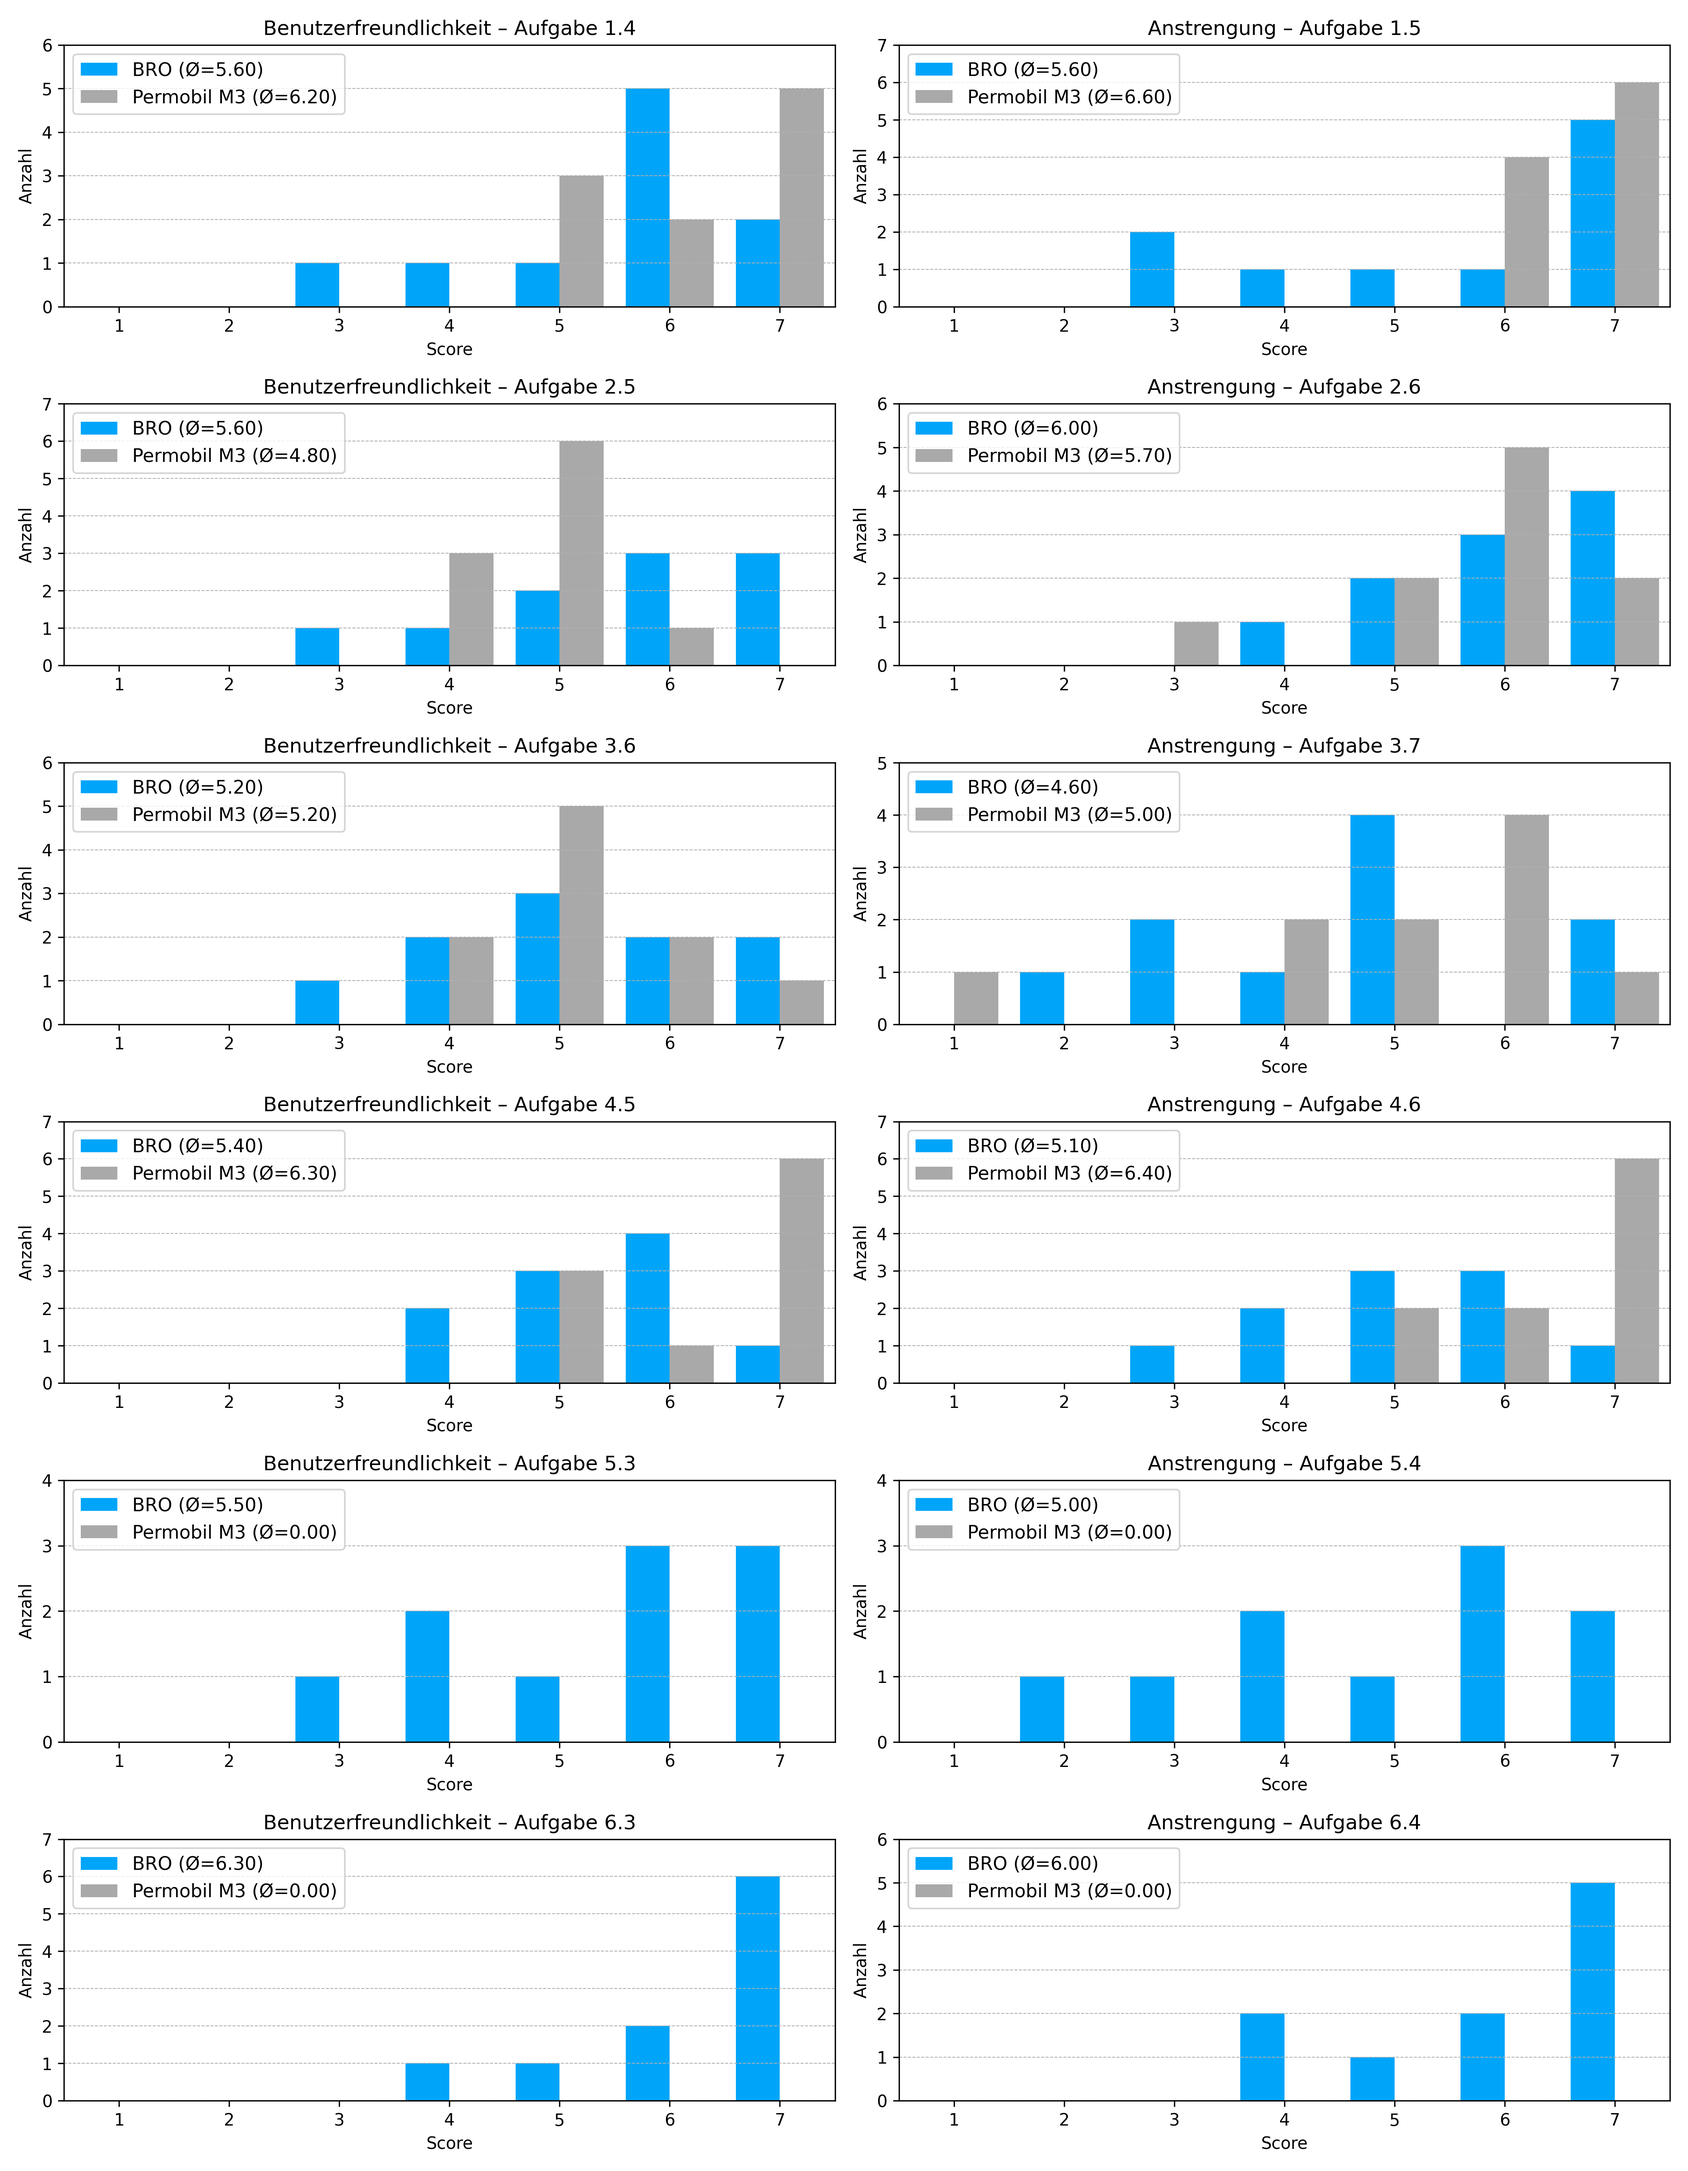
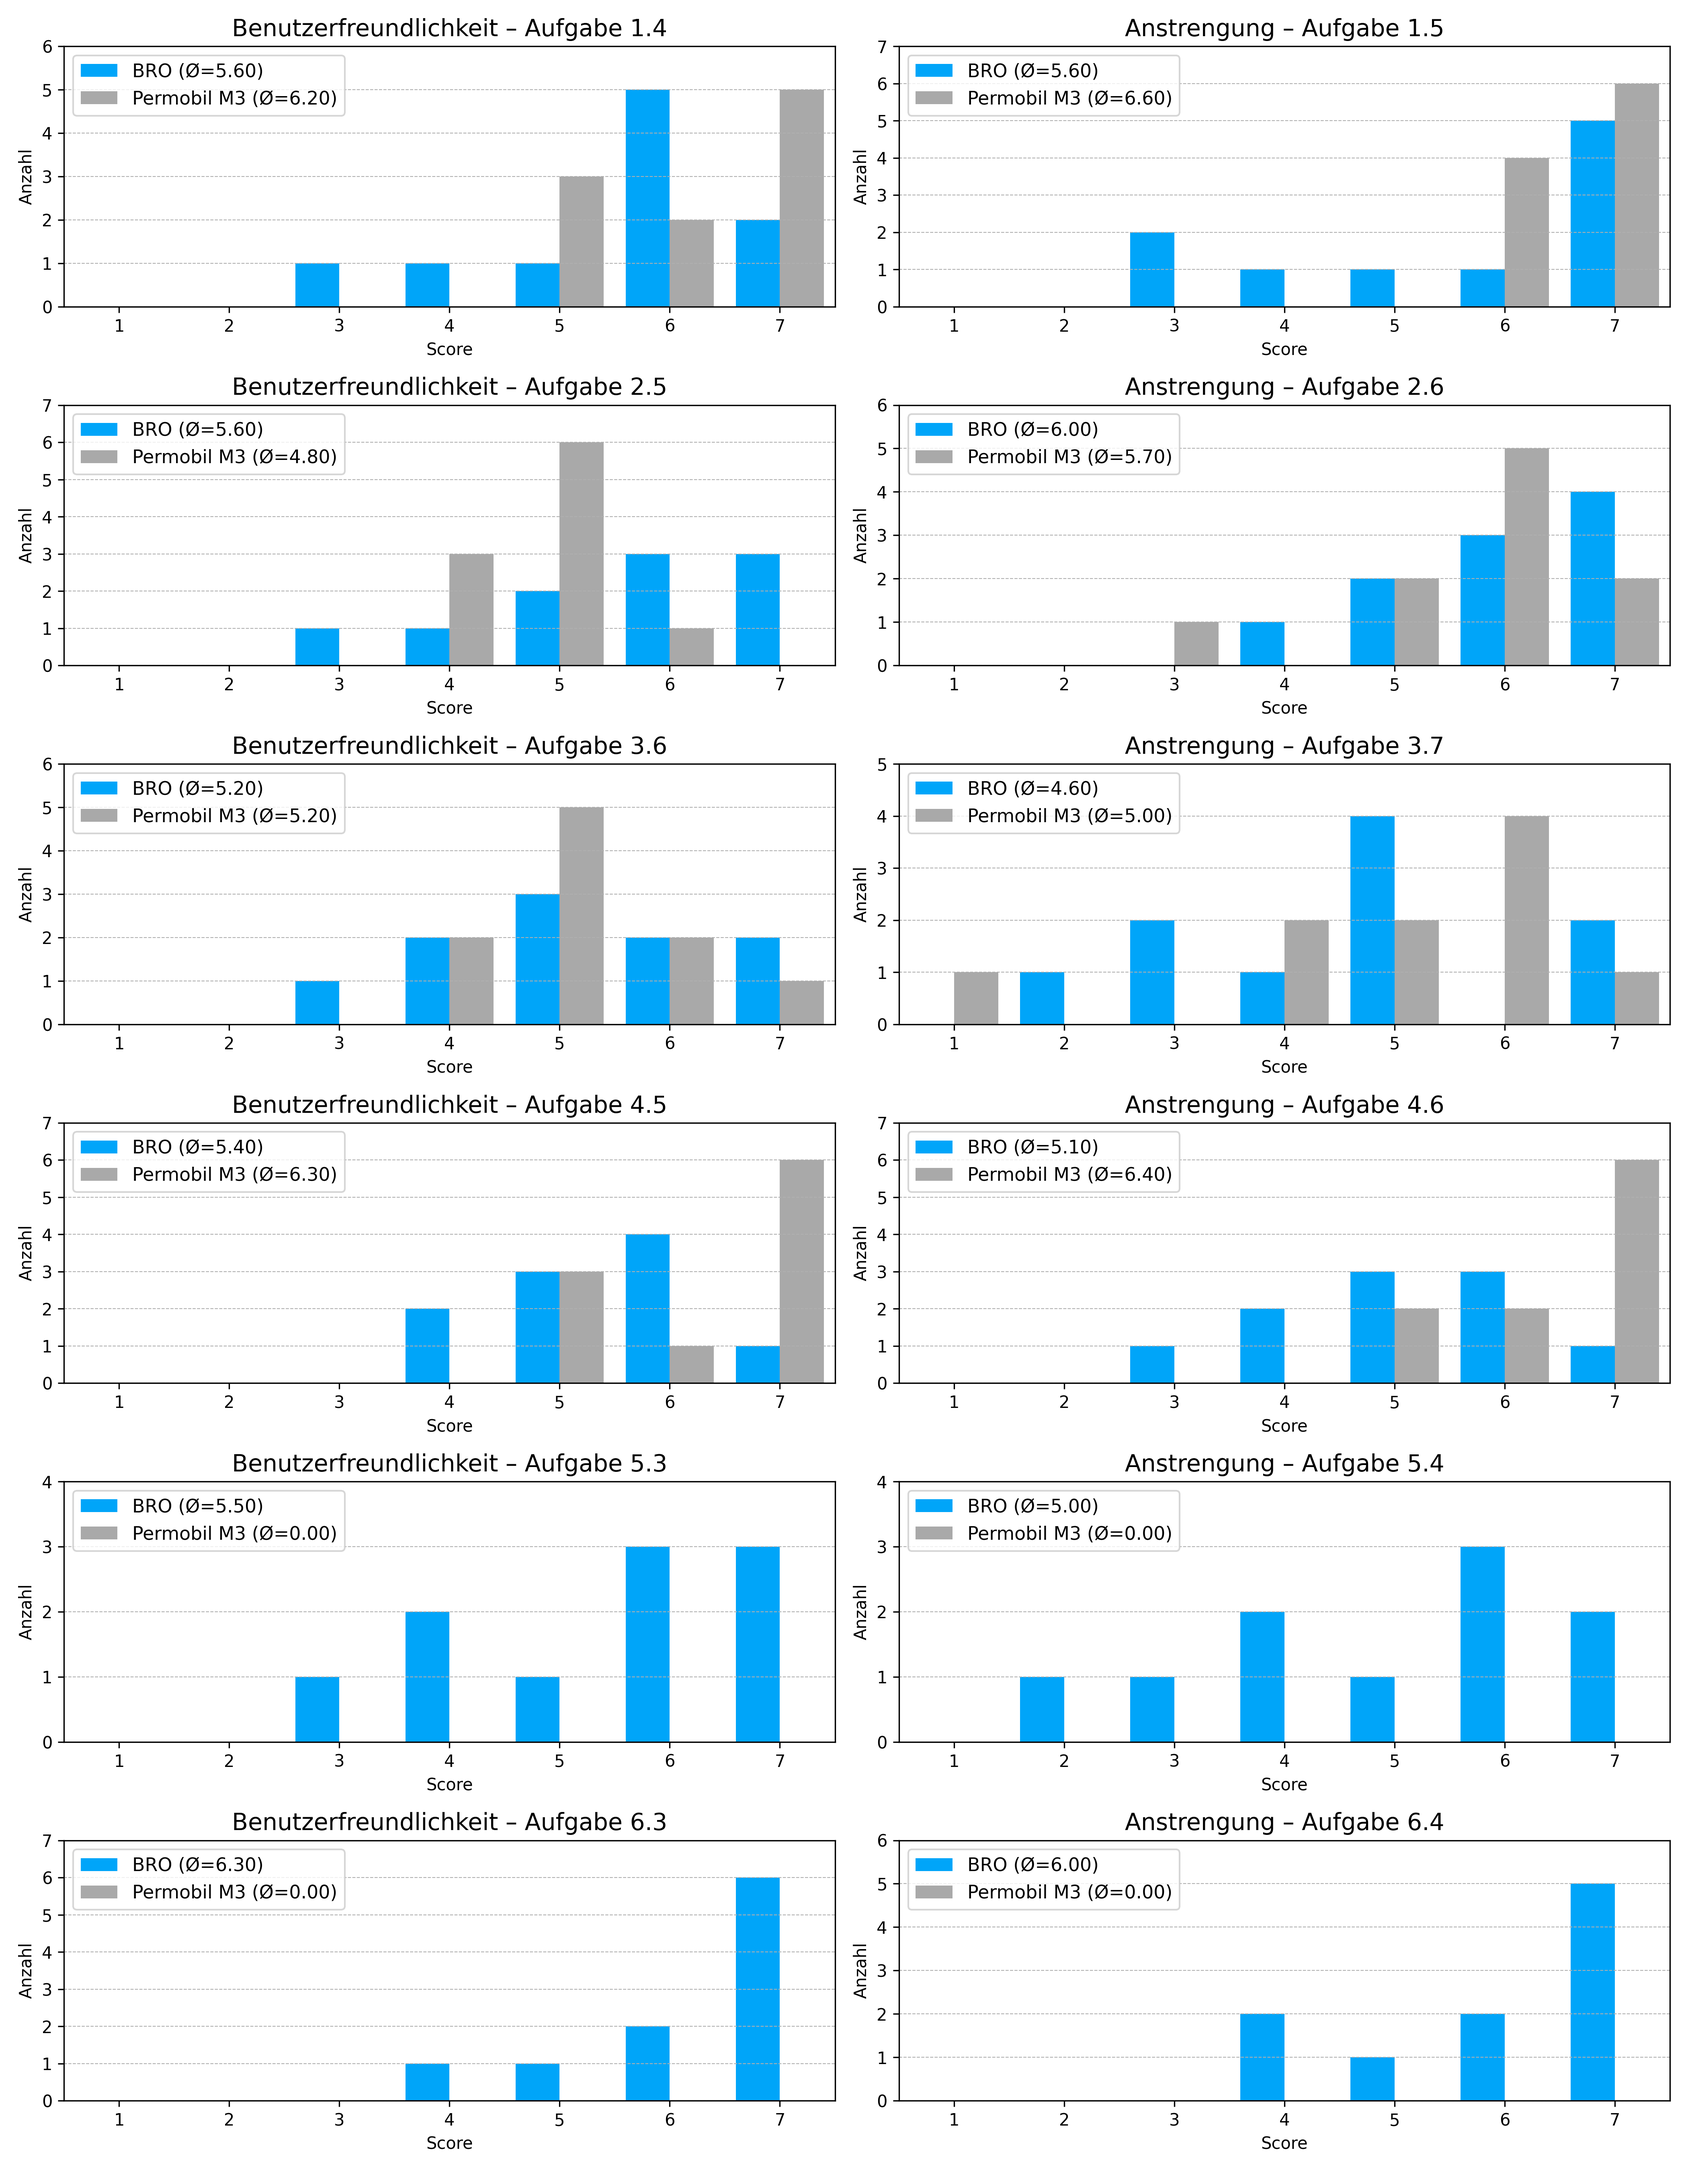
added mean value

diff --git a/Code/score_barplot_improved.py b/Code/score_barplot_improved.py
@@ -45,7 +45,7 @@ def plot_bar_chart(ax, score_counts, title, global_max):
     bars_m3 = ax.bar(x + width/2, score_counts['Permobil M3'], width,
                      label=f'Permobil M3 (Ø={mean_m3:.2f})', color=COLOR_MAP['Permobil M3'])
 
-    ax.set_title(title, fontsize=10)
+    ax.set_title(title, fontsize=14)
     ax.set_xticks(x)
     ax.set_xticklabels(['No Part (0)', 'Fail (1)', 'Partial Pass (2)', 'Pass (3)'])
 
@@ -61,6 +61,28 @@ def plot_bar_chart(ax, score_counts, title, global_max):
     ax.grid(True, axis='y', linestyle='--', linewidth=0.5)
     ax.legend(loc='upper left', fontsize=10)
 
+def plot_percentage_bar_chart(ax, score_counts, title):
+    score_counts_percent = score_counts.div(score_counts.sum(axis=0), axis=1) * 100
+
+    x = np.arange(len(score_counts.index))
+    width = 0.35
+
+    mean_bro = calculate_mean(score_counts, 'BRO')
+    mean_m3 = calculate_mean(score_counts, 'Permobil M3')
+
+    ax.bar(x - width/2, score_counts_percent['BRO'], width,
+           label=f'BRO (Ø={mean_bro:.2f})', color=COLOR_MAP['BRO'])
+    ax.bar(x + width/2, score_counts_percent['Permobil M3'], width,
+           label=f'Permobil M3 (Ø={mean_m3:.2f})', color=COLOR_MAP['Permobil M3'])
+
+    ax.set_title(title, fontsize=14)
+    ax.set_xticks(x)
+    ax.set_xticklabels(['No Part (0)', 'Fail (1)', 'Partial Pass (2)', 'Pass (3)'])
+    ax.set_ylim(0, 100)
+    ax.set_ylabel('Prozent')
+    ax.yaxis.set_major_locator(ticker.MultipleLocator(10))
+    ax.grid(True, axis='y', linestyle='--', linewidth=0.5)
+    ax.legend(loc='upper left', fontsize=10)
 
 # === Main Logic ===
 df = load_csv("merged_data.csv")
@@ -143,7 +165,6 @@ for i, task_num in enumerate(range(1, 7)):
         bro_scores.extend(extract_scores(row, task_num, 'BRO'))
         m3_scores.extend(extract_scores(row, task_num, 'Permobil M3'))
 
-    # Nur gültige Werte behalten
     bro_scores = [s for s in bro_scores if pd.notna(s)]
     m3_scores = [s for s in m3_scores if pd.notna(s)]
 
@@ -155,17 +176,81 @@ for i, task_num in enumerate(range(1, 7)):
                      capprops=dict(color='black'),
                      flierprops=dict(markerfacecolor='red', marker='o', markersize=5, linestyle='none'))
 
-    # Farbe manuell zuweisen
-    colors = [COLOR_MAP['BRO'], COLOR_MAP['Permobil M3']]
-    for patch, color in zip(box['boxes'], colors):
+    for patch, color in zip(box['boxes'], [COLOR_MAP['BRO'], COLOR_MAP['Permobil M3']]):
         patch.set_facecolor(color)
 
-    ax.set_title(COMBINED_TITLES[i], fontsize=10)
+    # Mittelwertraute
+    for j, (scores, version) in enumerate(zip([bro_scores, m3_scores], ['BRO', 'Permobil M3'])):
+        mean_val = np.mean(scores)
+        ax.plot(j + 1, mean_val, marker='D', color='black', markersize=6, label='Mittelwert' if i == 0 and version == 'BRO' else "")
+
+    ax.set_title(COMBINED_TITLES[i], fontsize=14)
     ax.set_ylabel('Score')
     ax.set_ylim(-0.5, 3.5)
     ax.grid(True, axis='y', linestyle='--', linewidth=0.5)
 
+    if i == 0:
+        ax.legend()
+
 plt.tight_layout()
 output_path = os.path.join(BASE_DIR, "../Output", "task1to6_score_boxplots.png")
+plt.savefig(output_path, dpi=300)
+plt.close()
+
+
+# === Prozentuale Barplots (Tasks 1–6) ===
+fig, axs = plt.subplots(3, 2, figsize=(12, 10))
+axs = axs.flatten()
+
+for i, task_num in enumerate(range(1, 7)):
+    bro_rows, m3_rows = [], []
+
+    for _, row in df.iterrows():
+        bro_rows.extend([{'Score': s, 'Version': 'BRO'} for s in extract_scores(row, task_num, 'BRO')])
+        m3_rows.extend([{'Score': s, 'Version': 'Permobil M3'} for s in extract_scores(row, task_num, 'Permobil M3')])
+
+    all_scores = pd.DataFrame(bro_rows + m3_rows)
+    all_scores['Score'] = all_scores['Score'].astype(int)
+    score_counts = all_scores.groupby(['Score', 'Version']).size().unstack(fill_value=0).reindex([0, 1, 2, 3], fill_value=0)
+
+    plot_percentage_bar_chart(axs[i], score_counts, COMBINED_TITLES[i])
+
+plt.tight_layout()
+output_path = os.path.join(BASE_DIR, "../Output", "task1to6_score_grouped_barplot_percent.png")
+plt.savefig(output_path, dpi=300)
+plt.close()
+
+# === Prozentuale Barplots (Subtasks 1.x – 6.x) ===
+fig, axs = plt.subplots((len(subtasks) + 2) // 3, 3, figsize=(15, 20))
+axs = axs.flatten()
+
+for subtask, title, ax in zip(subtasks, DETAILED_TITLES, axs):
+    bro_scores, m3_scores = [], []
+
+    for _, row in df.iterrows():
+        bro_col = f"M1_{subtask}_score" if row['Group'] == 'A' else f"M2_{subtask}_score"
+        m3_col = f"M2_{subtask}_score" if row['Group'] == 'A' else f"M1_{subtask}_score"
+
+        if bro_col in row and pd.notna(row[bro_col]):
+            bro_scores.append({'Score': int(row[bro_col]), 'Version': 'BRO'})
+        if m3_col in row and pd.notna(row[m3_col]):
+            m3_scores.append({'Score': int(row[m3_col]), 'Version': 'Permobil M3'})
+
+    all_scores = pd.DataFrame(bro_scores + m3_scores)
+    score_counts = (
+        all_scores.groupby(['Score', 'Version'])
+        .size()
+        .unstack(fill_value=0)
+        .reindex(index=pd.Index([0, 1, 2, 3], name='Score'), fill_value=0)
+    )
+
+    plot_percentage_bar_chart(ax, score_counts, title)
+
+# Leere Achsen ausschalten
+for ax in axs[len(subtasks):]:
+    ax.axis('off')
+
+plt.tight_layout()
+output_path = os.path.join(BASE_DIR, "../Output", "task1to6_score_detailed_grouped_barplot_percent.png")
 plt.savefig(output_path, dpi=300)
 plt.close()

diff --git a/Code/EOU-effort_barplot.py b/Code/EOU-effort_barplot.py
@@ -61,7 +61,7 @@ def plot_eou_effort_paired(data_eou, data_effort, task_labels, output_file):
                     x = [s + (j - 0.5) * BAR_WIDTH for s in SCORE_RANGE]
                     ax.bar(x, freq, width=BAR_WIDTH, label=f"{version} (Ø={mean_vals[version]:.2f})", color=COLOR_MAP[version])
 
-                ax.set_title(f"{metric_label} – Aufgabe {task}")
+                ax.set_title(f"{metric_label} – Aufgabe {task}", fontsize=14)
                 ax.set_xlim(0.5, 7.5)
                 ax.set_ylim(0, max_height + 1)
                 ax.set_xticks(SCORE_RANGE)
@@ -98,7 +98,7 @@ plot_eou_effort_paired(eou_df, effort_df, task_labels, output_path)
 
 print(f"EOU + Effort Diagramm gespeichert unter: {output_path}")
 
-# === Boxplots für EOU und Effort über alle Aufgaben ===
+# === Boxplots für EOU und Effort über alle Aufgaben === --> zusätzlich Mittelwert-Linie
 def plot_overall_boxplots(eou_df, effort_df, output_file):
     fig, axs = plt.subplots(1, 2, figsize=(12, 5))
 
@@ -107,20 +107,29 @@ def plot_overall_boxplots(eou_df, effort_df, output_file):
         scores_m3 = data[data['Version'] == 'Permobil M3']['Score'].dropna()
 
         box = ax.boxplot([scores_bro, scores_m3], labels=['BRO', 'Permobil M3'],
-                         patch_artist=True,
-                         medianprops=dict(color='black'),
-                         whiskerprops=dict(color='black'),
-                         capprops=dict(color='black'),
-                         flierprops=dict(markerfacecolor='red', marker='o', markersize=5, linestyle='none'))
+                        patch_artist=True,
+                        medianprops=dict(color='black'),
+                        whiskerprops=dict(color='black'),
+                        capprops=dict(color='black'),
+                        flierprops=dict(markerfacecolor='red', marker='o', markersize=5, linestyle='none'))
 
         # Farben manuell zuweisen
         for patch, color in zip(box['boxes'], [COLOR_MAP['BRO'], COLOR_MAP['Permobil M3']]):
             patch.set_facecolor(color)
 
+        # Mittelwert-Raute
+        for i, (scores, version) in enumerate(zip([scores_bro, scores_m3], ['BRO', 'Permobil M3'])):
+            mean_val = scores.mean()
+            ax.plot(i + 1, mean_val, marker='D', color='black', markersize=6, label='Mittelwert' if title == 'Benutzerfreundlichkeit (EOU)' and version == 'BRO' else "")
+
         ax.set_title(title)
         ax.set_ylabel('Score')
         ax.set_ylim(0.5, 7.5)
         ax.grid(True, axis='y', linestyle='--', linewidth=0.5)
+
+    if title == 'Benutzerfreundlichkeit (EOU)':
+        ax.legend()
+
 
     plt.tight_layout()
     boxplot_output = output_file.replace(".png", "_boxplot.png")

diff --git a/Code/ssi_barplot_improved.py b/Code/ssi_barplot_improved.py
@@ -99,7 +99,7 @@ plt.savefig(output_path, dpi=300)
 plt.close()
 print(f"Gruppierte SSI-Barplots mit Mittelwerten gespeichert unter: {output_path}")
 
-# === Separate Boxplots für SSI-Items ===
+# === Separate Boxplots für SSI-Items ===  --> zusätzlich Mittelwerte in Boxplots anzeigen
 fig, axs = plt.subplots(1, len(SSI_ITEMS), figsize=(20, 5))
 
 for ax, item in zip(axs, SSI_ITEMS):
@@ -117,10 +117,19 @@ for ax, item in zip(axs, SSI_ITEMS):
     for patch, color in zip(box['boxes'], [COLOR_MAP['BRO'], COLOR_MAP['Permobil M3']]):
         patch.set_facecolor(color)
 
+    # Mittelwert-Rauten
+    for i, (scores, version) in enumerate(zip([bro_scores, m3_scores], ['BRO', 'Permobil M3'])):
+        mean_val = scores.mean()
+        ax.plot(i + 1, mean_val, marker='D', color='black', markersize=6, label='Mittelwert' if item == 'SSI_1' and version == 'BRO' else "")
+
     ax.set_title(SSI_TITLES[item])
     ax.set_ylabel('Score')
     ax.set_ylim(0.5, 7.5)
     ax.grid(True, axis='y', linestyle='--', linewidth=0.5)
+
+    if item == 'SSI_1':
+        ax.legend()
+
 
 plt.tight_layout()
 boxplot_output_path = os.path.join(BASE_DIR, "../Output", "ssi_boxplots.png")

diff --git a/Code/piads_boxplot_improved.py b/Code/piads_boxplot_improved.py
@@ -32,7 +32,7 @@ def plot_boxplots(data, score_names, y_lim, y_ticks, color_map, output_path):
     for i, col in enumerate(score_names, 1):
         plt.subplot(2, 2, i)
         ax = sns.boxplot(data=data, x='Version', y=col, hue='Version', palette=color_map, dodge=False)
-        
+
         # Add title with sample sizes
         n_bro = data[data['Version'] == 'BRO'][col].notna().sum()
         n_perm = data[data['Version'] == 'Permobil M3'][col].notna().sum()
@@ -47,6 +47,16 @@ def plot_boxplots(data, score_names, y_lim, y_ticks, color_map, output_path):
         # Add gridlines
         ax.yaxis.grid(True, linestyle='-', linewidth=0.5)
         ax.set_axisbelow(True)
+
+        # Mittelwerte als schwarze Rauten
+        for version in data['Version'].unique():
+            mean_val = data[data['Version'] == version][col].mean()
+            xpos = 0 if version == 'BRO' else 1
+            ax.plot(xpos, mean_val, marker='D', color='black', markersize=6, label='Mittelwert' if i == 1 and version == 'BRO' else "")
+
+        if i == 1:
+            ax.legend()
+
 
     plt.tight_layout()
     plt.savefig(output_path, dpi=300)
